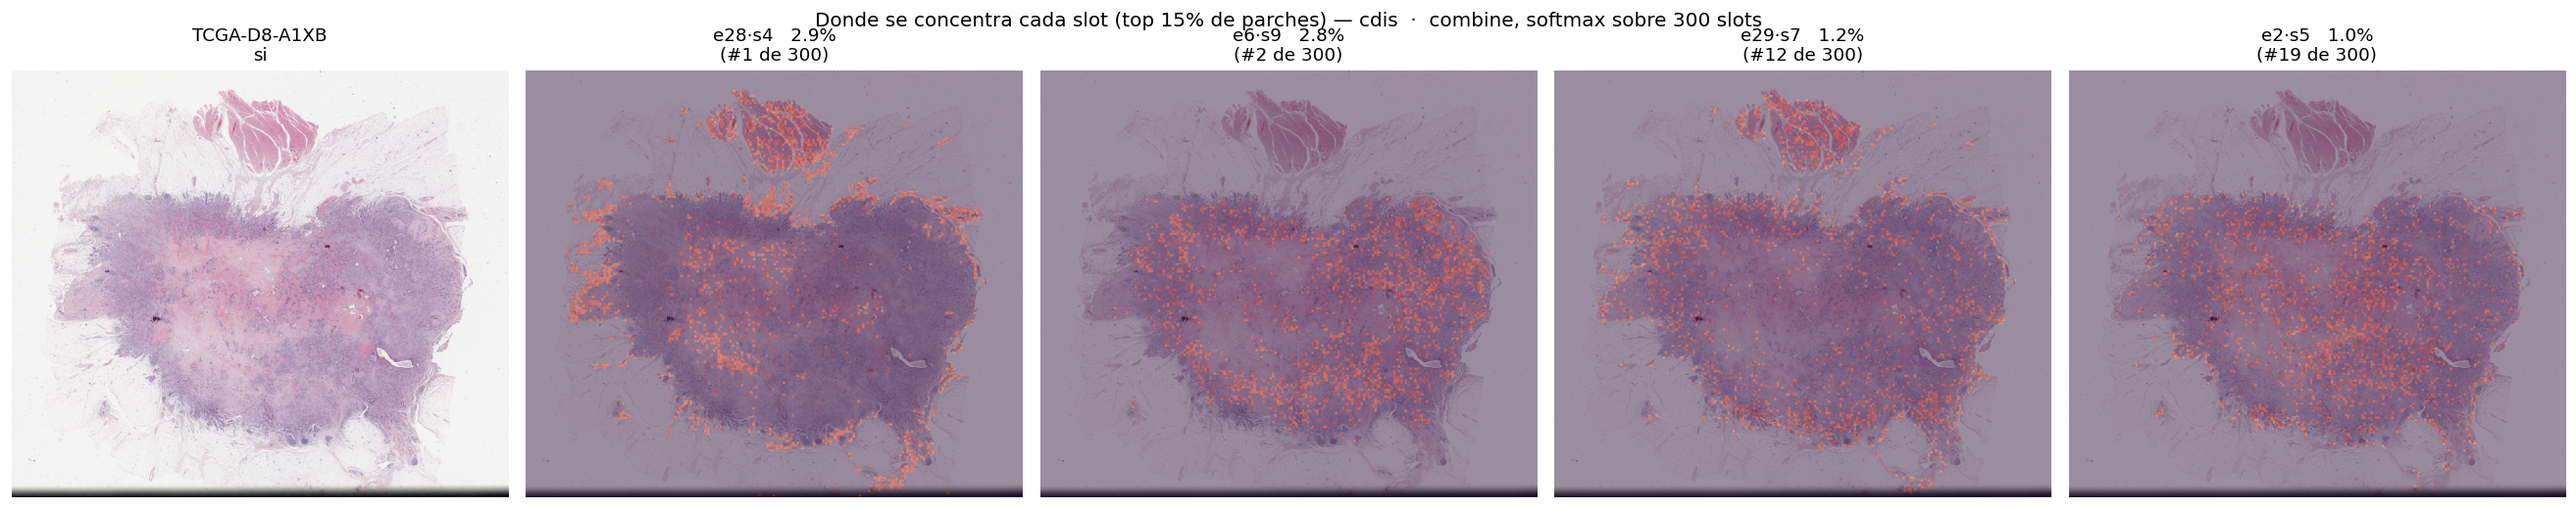
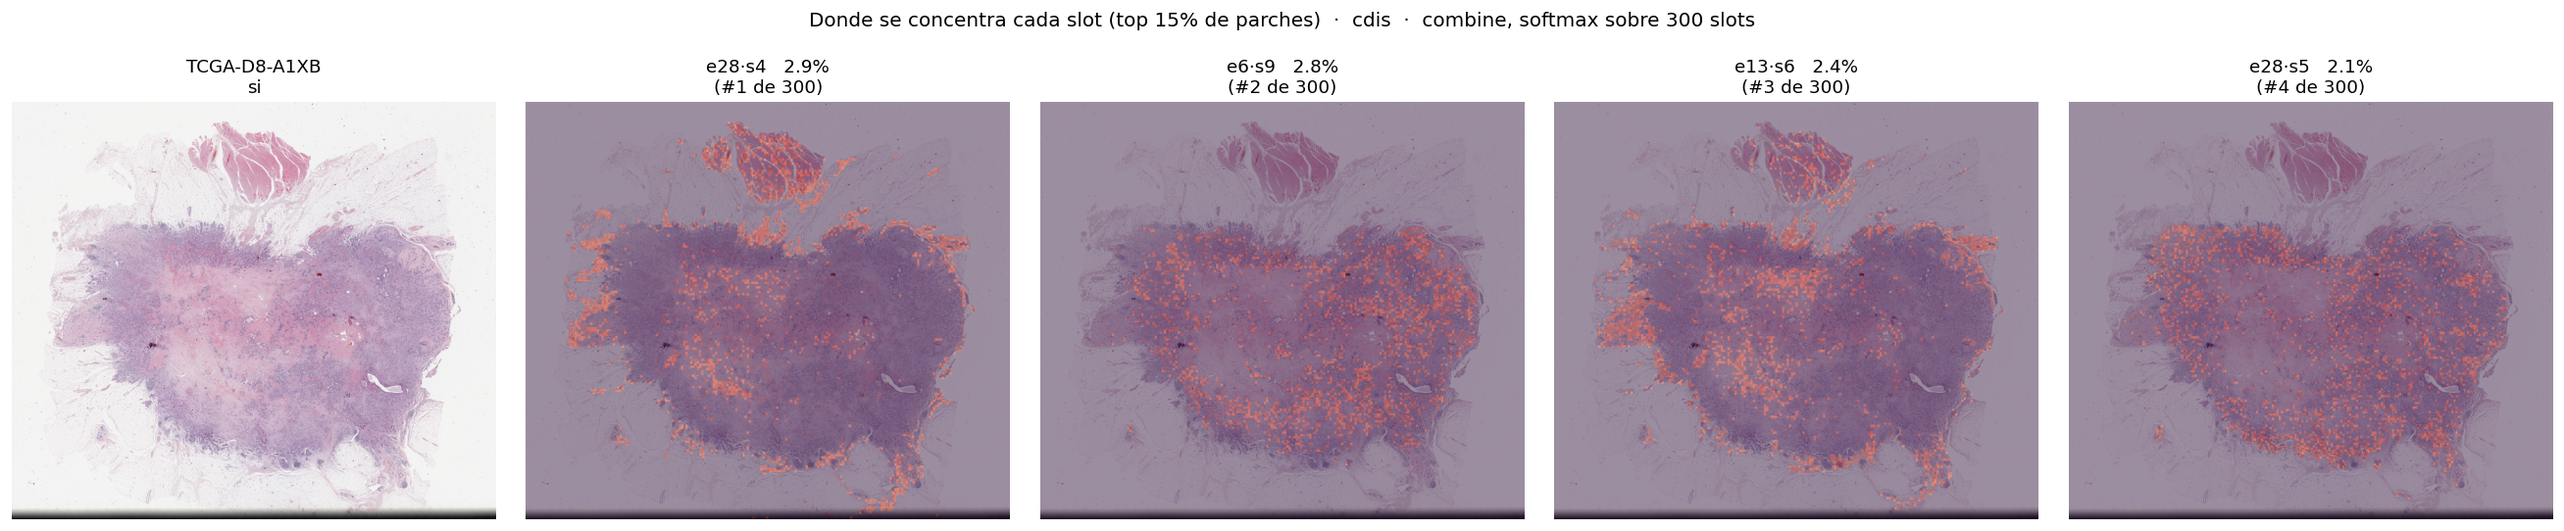
feat(b7): top-4 puro en los mapas por slot, correlacion mismo-experto y cota de la softmax
Encargos §1 y §4 de la reunion del 23-jul.

- slot_heatmaps_contraste.py deja de llamar a pick_diverse_slots (salteaba
  puestos del ranking y escondia el caso de dos slots del mismo experto);
  ahora dibuja el top-4 puro y emite la correlacion espacial de los top-12.
- variante _deck de cada PNG: sin suptitle y con rotulos ~3x mas grandes,
  porque a 11 pt aterrizaban en ~3.5 pt proyectados.
- suptitle ya no se monta sobre los titulos de panel (faltaba el rect en
  tight_layout); de paso sale la raya larga del titulo.
- slot_cota_softmax.py: la cota es el reparto uniforme 1/300, unico corte
  sin parametro libre. Da 63-96 slots por lamina que concentran el 73%.

Changed region(s): [[0.1859, 0.0308, 1.0, 0.9846], [0.0, 0.1846, 0.2168, 0.9846], [0.062, 0.0615, 0.1239, 0.1538]]

diff --git a/scripts/slot_heatmaps_contraste.py b/scripts/slot_heatmaps_contraste.py
@@ -75,7 +75,12 @@ def slot_combine_spatial(mammoth, feats, device="cpu"):
 
 
 def pick_diverse_slots(comb, su, S, k, pool=20):
-    """Del top-`pool` por peso, elige greedy k slots ESPACIALMENTE diversos.
+    """[YA NO SE USA — 23-jul] Del top-`pool` por peso, elige greedy k slots ESPACIALMENTE diversos.
+
+    RETIRADA del flujo por pedido de Sebastian: saltear puestos del ranking (mostraba
+    #1,#2,#4,#13 en tipo) escondia justo el caso que el quiere ver, dos slots del MISMO
+    experto (en cdis, e28·s4 #1 y e28·s5 #4). Ahora se dibuja el top-`TOPK` PURO. Se
+    conserva la funcion como referencia del criterio de diversidad, sin llamarse.
 
     Los slots mas pesados no son redundantes (corr media ~0) pero algunos si se
     parecen entre si (p.ej. dos que rutean el mismo tejido, corr ~0.9). Mostrar dos
@@ -145,34 +150,65 @@ def main():
         comb = slot_combine_spatial(mammoth, feats)          # (N, E*S)
         S = mammoth.num_slots
 
-        # slots DIVERSOS del top por peso (no dos que rutean el mismo tejido)
-        top = pick_diverse_slots(comb, su, S, TOPK, pool=20)
-        print("   slots elegidos (rank en la tabla): " +
-              ", ".join(f"e{int(r.expert)}·s{int(r.slot)}(#{int(r.rank)+1})"
-                        for r in top.itertuples()))
+        # top-TOPK PURO del ranking de la lamina: calza 1:1 con las 4 primeras filas de
+        # la tabla mini, aunque se repita el experto (ese caso es el que interesa ver).
+        top = su.head(TOPK)
+        print("   slots dibujados (top puro): " +
+              ", ".join(f"e{int(r.expert)}·s{int(r.slot)}(#{i})"
+                        for i, r in enumerate(top.itertuples(), 1)))
+
+        # correlacion espacial entre los top-TOPN slots de la tabla: responde si dos slots
+        # del MISMO experto ven lo mismo o cosas distintas. Rangos por parche (Spearman).
+        ids = [f"e{int(e)}·s{int(s)}" for e, s in
+               zip(su["expert"].head(TOPN), su["slot"].head(TOPN))]
+        cols = np.vstack([np.argsort(np.argsort(comb[:, int(e) * S + int(s)]))
+                          for e, s in zip(su["expert"].head(TOPN), su["slot"].head(TOPN))])
+        R = np.corrcoef(cols)
+        pd.DataFrame(R, index=ids, columns=ids).round(3).to_csv(OUT / f"slot_corr_{label}.csv")
+        pares = [(ids[i], ids[j], R[i, j]) for i in range(TOPN) for j in range(i + 1, TOPN)]
+        mismo = [p for p in pares if p[0].split("·")[0] == p[1].split("·")[0]]
+        otros = [p[2] for p in pares if p not in mismo]
+        print(f"   corr media entre distintos expertos: {np.mean(otros):+.2f} "
+              f"(rango {min(otros):+.2f} a {max(otros):+.2f})")
+        for a, b, c in mismo:
+            print(f"   MISMO experto: {a} vs {b} -> corr {c:+.2f}")
 
         thumb, scale, mag, _, _ = get_wsi_thumbnail(sl["wsi"])
         ps0 = infer_patch_size_level0(coords)                # geometria real del h5
+        paneles = [footprint(thumb, coords, comb[:, int(r.expert) * S + int(r.slot)],
+                             scale, ps0, q=0.85) for r in top.itertuples()]
 
-        th, tw = thumb.shape[:2]
-        fig, axes = plt.subplots(1, TOPK + 1, figsize=((TOPK + 1) * 4.4, 4.4 * th / tw + 0.7))
-        axes[0].imshow(thumb); axes[0].set_axis_off()
-        axes[0].set_title(f"{short}\n{sl['label']}", fontsize=11)
+        # dos versiones del MISMO contenido: la standalone lleva suptitle (se lee sola en el
+        # repo); la `_deck` no, porque en la lamina el titulo y el pie lo dicen -> repetirlo
+        # roba alto, y en el deck van tres apiladas.
+        for sufijo, con_titulo in (("", True), ("_deck", False)):
+            # En el deck cada panel mide ~1.4" de ancho contra las 4.4" de la figura: un
+            # rotulo de 11 pt aterriza en ~3.5 pt y no se lee proyectado. La variante `_deck`
+            # los agranda ~3x (y el thumb pierde la clase, que ya la da la tabla al lado).
+            fs = 30 if sufijo else 11
+            th, tw = thumb.shape[:2]
+            fig, axes = plt.subplots(1, TOPK + 1,
+                                     figsize=((TOPK + 1) * 4.4, 4.4 * th / tw + 0.7))
+            axes[0].imshow(thumb); axes[0].set_axis_off()
+            axes[0].set_title(short if sufijo else f"{short}\n{sl['label']}",
+                              fontsize=26 if sufijo else 11)
 
-        for ax, r in zip(axes[1:], top.itertuples()):
-            e, s = int(r.expert), int(r.slot)
-            col = comb[:, e * S + s]                          # peso del slot por parche
-            ax.imshow(footprint(thumb, coords, col, scale, ps0, q=0.85)); ax.set_axis_off()
-            ax.set_title(f"e{e}·s{s}   {100 * r.mean_combine_weight:.1f}%\n"
-                         f"(#{int(r.rank) + 1} de 300)", fontsize=11)
+            for ax, img, r in zip(axes[1:], paneles, top.itertuples()):
+                ax.imshow(img); ax.set_axis_off()
+                ax.set_title(f"e{int(r.expert)}·s{int(r.slot)}   "
+                             f"{100 * r.mean_combine_weight:.1f}%\n"
+                             f"(#{int(r.rank) + 1} de 300)", fontsize=fs)
 
-        fig.suptitle(f"Donde se concentra cada slot (top 15% de parches) — {label}  ·  "
-                     f"combine, softmax sobre 300 slots", fontsize=12)
-        plt.tight_layout()
-        out_png = OUT / f"slot_heatmaps_{label}.png"
-        plt.savefig(out_png, bbox_inches="tight", dpi=120)
-        plt.close()
-        print(f"   -> {out_png.relative_to(REPO)}")
+            if con_titulo:
+                # suptitle ANTES del tight_layout CON rect: sin el rect, tight_layout ignora
+                # el suptitle y este se monta sobre los titulos de panel (cazado en el QA).
+                fig.suptitle(f"Donde se concentra cada slot (top 15% de parches)  ·  {label}"
+                             f"  ·  combine, softmax sobre 300 slots", fontsize=12, y=0.995)
+            plt.tight_layout(rect=[0, 0, 1, 0.93] if con_titulo else None)
+            out_png = OUT / f"slot_heatmaps_{label}{sufijo}.png"
+            plt.savefig(out_png, bbox_inches="tight", dpi=120)
+            plt.close()
+            print(f"   -> {out_png.relative_to(REPO)}")
 
 
 if __name__ == "__main__":

diff --git a/scripts/slot_cota_softmax.py b/scripts/slot_cota_softmax.py
@@ -1,0 +1,108 @@
+"""slot_cota_softmax.py — cota sobre la softmax por slot: cuantos slots aportan (B7).
+
+Encargo de Sebastian (reunion 23-jul, §4 de `reunion_23jul_acuerdos.md`): definir una cota
+conveniente sobre la 2a softmax para decidir que slots ya no aportan practicamente nada, y
+con eso dar una idea de cuantos slots requiere aproximadamente cada tarea.
+
+POR QUE POR LAMINA Y NO POR TAREA: promediar los pesos de laminas distintas SUBE la entropia
+y aplana la cola (N_eff de tarea 199 vs ~161 por lamina en tipo). El objeto medible es la
+lamina; la tarea se reporta como RANGO entre sus laminas, nunca como una distribucion
+promediada. Mismo criterio que se uso para citar N_eff ([[mammoth-slot-routing-weight]]).
+
+LA COTA ELEGIDA es el reparto uniforme, 1/300 = 0.333 %. Es el unico corte sin parametro
+libre (igual que `N_eff = exp(H)`): un slot que recibe MENOS que el uniforme no concentra
+nada, recibe menos de lo que le tocaria si el ruteo fuera ciego. Cortes a ojo dan de 25 a
+300 slots segun donde se pongan (§5.2 de `resultados_interpretabilidad.md`), por eso hay
+que justificar la cota y no elegirla a mano.
+
+CPU, post-hoc, read-only sobre los `slot_usage.csv` + `attention_stats.json` ya existentes.
+NO toca modelo ni training (regla 9 no aplica).
+
+Salida: sprints/B7_sprint7/slot_softmax/slot_cota_por_lamina.csv
+
+Uso:
+  /home/sdonoso/miniconda3/envs/clam_latest/bin/python scripts/slot_cota_softmax.py
+"""
+from __future__ import annotations
+
+import json
+from pathlib import Path
+
+import numpy as np
+import pandas as pd
+
+REPO = Path("/media/administrador/Storage1/sdonoso/clam_testing2/oncomets-ernesto")
+INTERP = REPO / "results/b7_mammoth_interp/interpretabilidad"
+OUT = REPO / "sprints/B7_sprint7/slot_softmax"
+UNIFORM = 1.0 / 300.0  # 0.3333 % — la cota
+
+TASK_LABEL = {
+    "tipo_histologico_3clases_ci": "tipo_histologico",
+    "carcinoma_ductal_insitu_presente_ci_reform": "cdis",
+    "invasion_linfatica_vascular_ci_reform": "lvi",
+}
+
+
+def n_eff(p):
+    """Numero efectivo de slots = exp(entropia). n si uniforme, 1 si colapsa en uno."""
+    p = np.clip(np.asarray(p, float), 1e-15, 1.0)
+    p = p / p.sum()
+    return float(np.exp(-(p * np.log(p)).sum()))
+
+
+def main():
+    filas = []
+    for task_key, label in TASK_LABEL.items():
+        for csv in sorted((INTERP / task_key).glob("*/expertos/slot_usage.csv")):
+            slide_dir = csv.parent.parent
+            # meta.json = marcador FINAL del driver reanudable: sin el, la lamina puede
+            # estar a medio escribir (mismo filtro que answer_q1, fix f0d043e)
+            if not (slide_dir / "expertos" / "meta.json").exists():
+                print(f"  [skip] sin meta.json: {slide_dir.name}")
+                continue
+            stats = json.loads((slide_dir / "attention_stats.json").read_text())
+            w = pd.read_csv(csv)["mean_combine_weight"].to_numpy(float)
+            p = np.sort(w / w.sum())[::-1]
+            cum = np.cumsum(p)
+
+            sobre = int((p >= UNIFORM).sum())
+            filas.append({
+                "tarea": label,
+                "lamina": slide_dir.name.split("-01Z")[0],
+                "parches": stats["n_patches"],
+                "N_eff": round(n_eff(p), 1),
+                "slots_sobre_uniforme": sobre,
+                "masa_de_esos_pct": round(100 * cum[sobre - 1], 1),
+                "slots_50pct": int(np.searchsorted(cum, 0.50) + 1),
+                "slots_90pct": int(np.searchsorted(cum, 0.90) + 1),
+                "top1_pct": round(100 * p[0], 2),
+                "min_vs_uniforme": round(p[-1] / UNIFORM, 4),
+            })
+
+    df = pd.DataFrame(filas).sort_values(["tarea", "parches"]).reset_index(drop=True)
+    out_csv = OUT / "slot_cota_por_lamina.csv"
+    df.to_csv(out_csv, index=False)
+
+    with pd.option_context("display.width", 200, "display.max_columns", 20):
+        print(df.to_string(index=False))
+
+    print("\n=== rango por tarea (cota = uniforme 1/300 = 0.333 %) ===")
+    for t, g in df.groupby("tarea", sort=False):
+        s = g["slots_sobre_uniforme"]
+        print(f"{t:>17}: {s.min()}–{s.max()} slots sobre la cota "
+              f"(media {s.mean():.0f}), concentran {g['masa_de_esos_pct'].min():.0f}–"
+              f"{g['masa_de_esos_pct'].max():.0f} % del peso · N_eff "
+              f"{g['N_eff'].min():.0f}–{g['N_eff'].max():.0f}")
+
+    s = df["slots_sobre_uniforme"]
+    print(f"\nGLOBAL (7 laminas): {s.min()}–{s.max()} slots sobre la cota, media {s.mean():.0f} "
+          f"(= {100 * s.mean() / 300:.0f} % de los 300); concentran "
+          f"{df['masa_de_esos_pct'].mean():.0f} % del peso de media.")
+    print(f"El slot mas chico recibe {df['min_vs_uniforme'].min():.4f}× a "
+          f"{df['min_vs_uniforme'].max():.4f}× el uniforme (o sea, entre "
+          f"{1 / df['min_vs_uniforme'].max():.0f}× y {1 / df['min_vs_uniforme'].min():.0f}× MENOS).")
+    print(f"\n[ok] {out_csv.relative_to(REPO)}")
+
+
+if __name__ == "__main__":
+    main()
